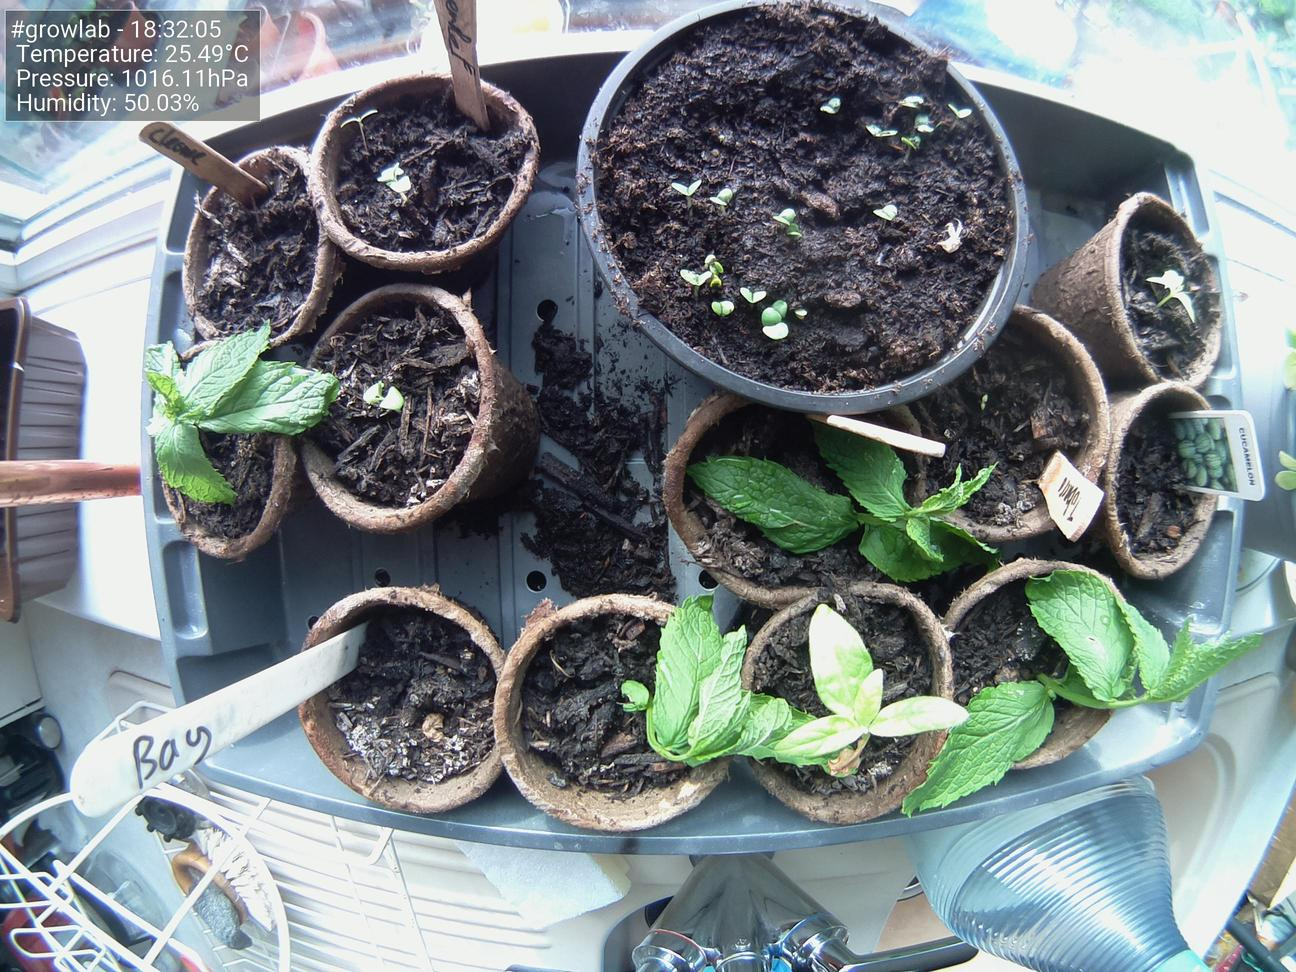
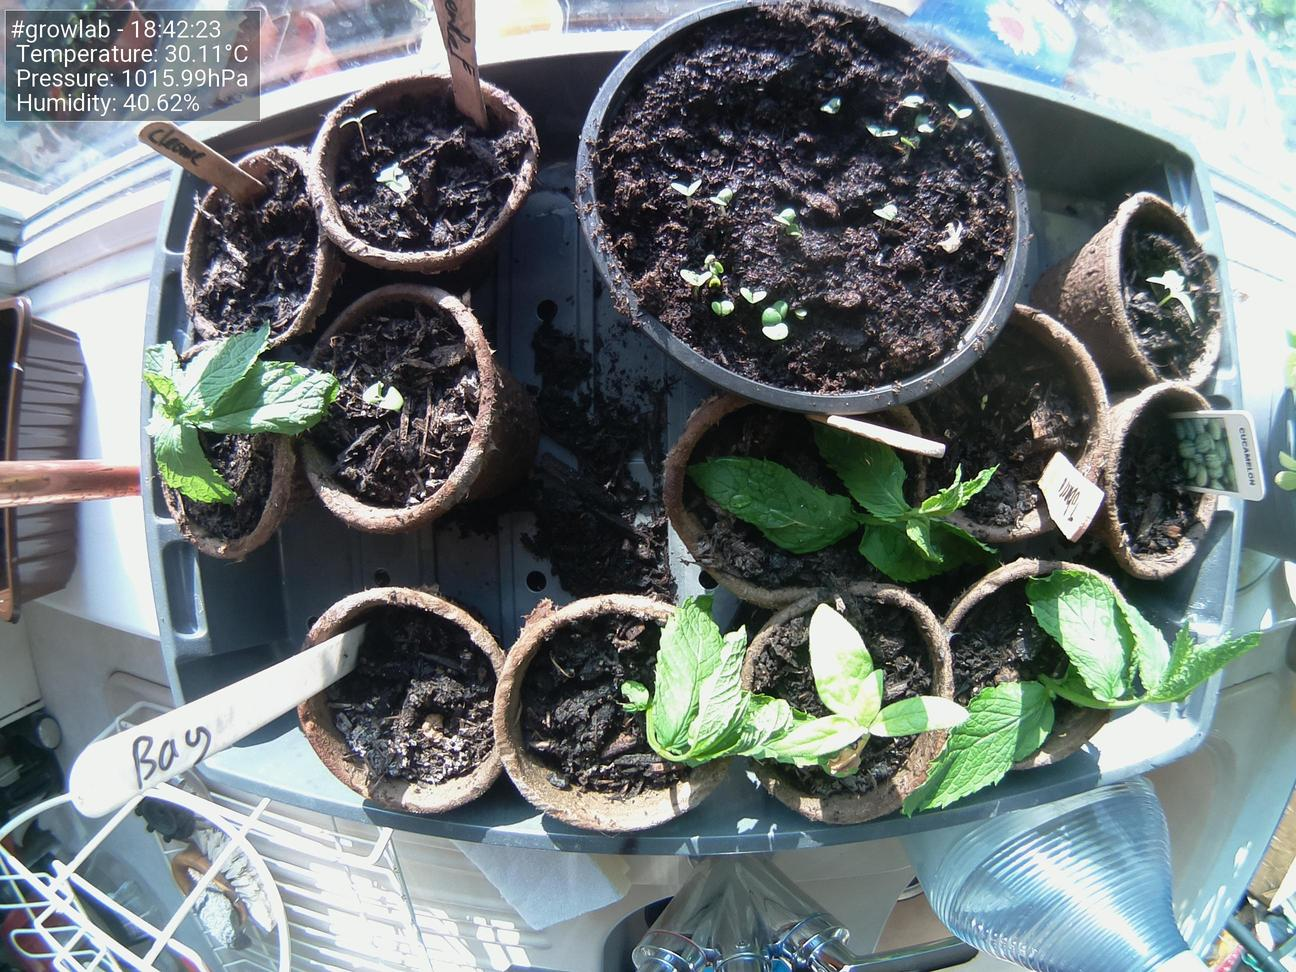
Update images at Tue 29 Jun 18:42:33 BST 2021

diff --git a/docs/index.html b/docs/index.html
@@ -47,19 +47,19 @@
                         <tbody>
                             <tr>
                                 <td>Time</td>
-                                <td>18:32:05</td>
+                                <td>18:42:23</td>
                             </tr>
                             <tr>
                                 <td>Temperature</td>
-                                <td>25.49°C</td>
+                                <td>30.11°C</td>
                             </tr>
                             <tr>
                                 <td>Humidity</td>
-                                <td>50.03%</td>
+                                <td>40.62%</td>
                             </tr>
                             <tr>
                                 <td>Pressure</td>
-                                <td>1016.11hPa</td>
+                                <td>1015.99hPa</td>
                             </tr>
                         </tbody>
                     </table>
@@ -67,7 +67,7 @@
 
                 <h5>Latest image</h5>
                 <div style="width: 85%;">
-                            <img class="figure-img img-fluid rounded" src="./preview.jpg?uid=1624987933.899402">
+                            <img class="figure-img img-fluid rounded" src="./preview.jpg?uid=1624988552.4840727">
                 </div>
             </div>
         </div>
